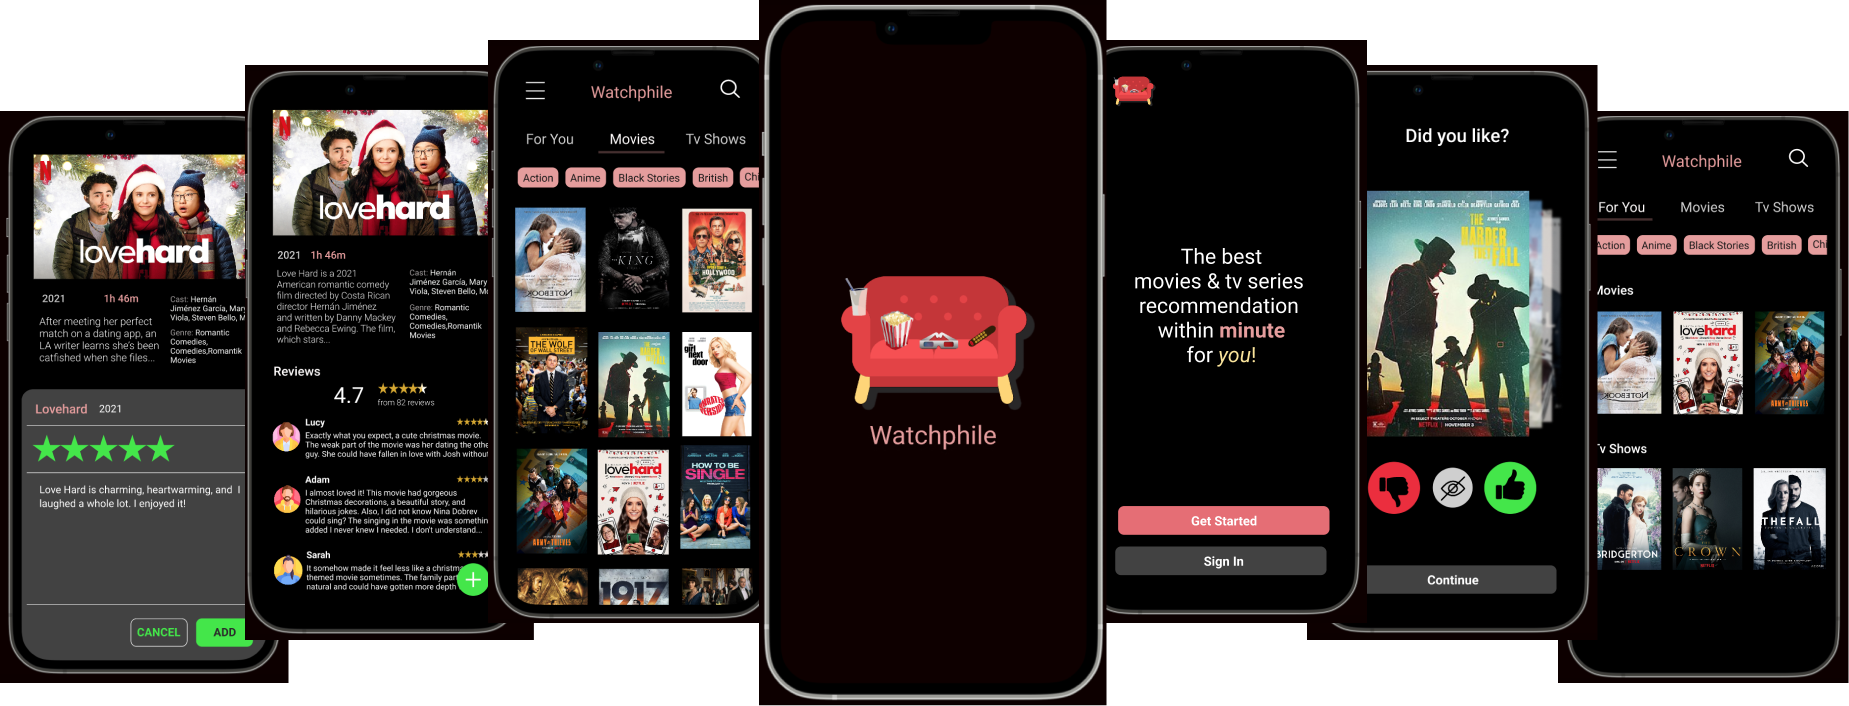
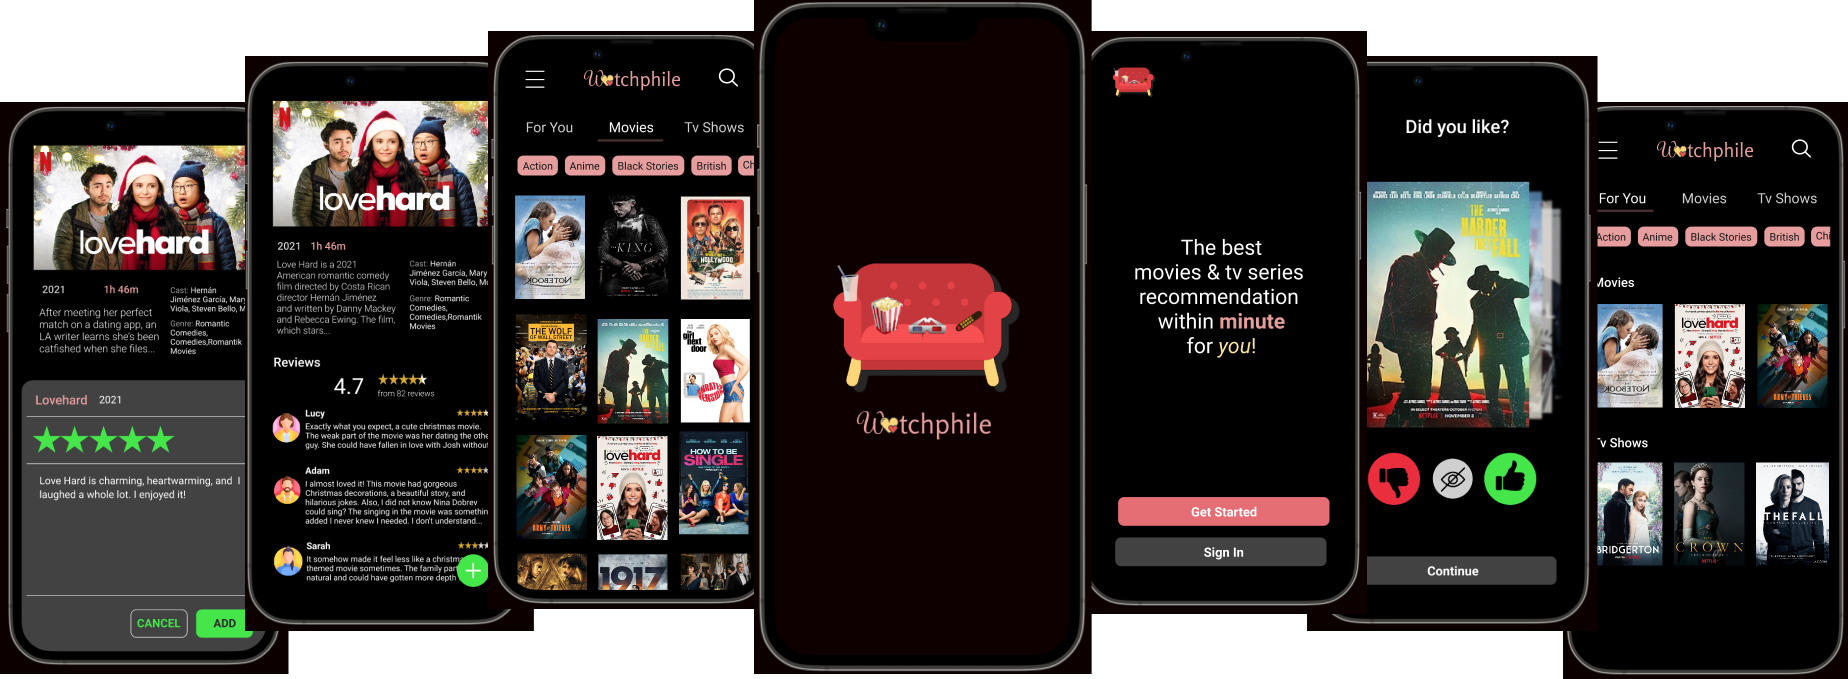
Update watchphile text with an image

Changed region(s): [[0.0, 0.0, 1.0, 1.0], [0.7403, 0.1546, 0.8328, 0.2165], [0.0, 0.4021, 0.0308, 0.433]]

diff --git a/src/pages/index.js b/src/pages/index.js
@@ -9,12 +9,11 @@ import intro_video from "../images/intro_video.png"
 import think_icon from "../images/think_icon.png" 
 import movie_icon from "../images/movie_icon.png" 
 import point_icon from "../images/point_icon.png" 
+import watchphile_text_icon from "../images/watchphile_text_image.png"
 
 
 function writeUserData(email) {
   console.log("writeUserData", email)
-
-
 }
 
 function handleClick(e) {
@@ -45,7 +44,7 @@ export default function Home() {
   <div className="container mx-auto flex flex-wrap p-2 pt-4 ml-7 flex-col md:flex-row items-center">
     <a className="flex title-font font-medium items-center text-gray-900 mb-4 md:mb-0">
     <img className="lg:w-1/6 md:w-2/6 w-3/6" alt="Watchphile Icon" src={header_icon}/>
-    <span className="ml-2 text-2xl font-normal text-pink-700">Watchphile</span>
+    <img className="lg:w-1/6 md:w-2/6 w-3/6" alt="Watchphile Text Image" src={watchphile_text_icon}/>
     </a>
    </div>
 </header> 
